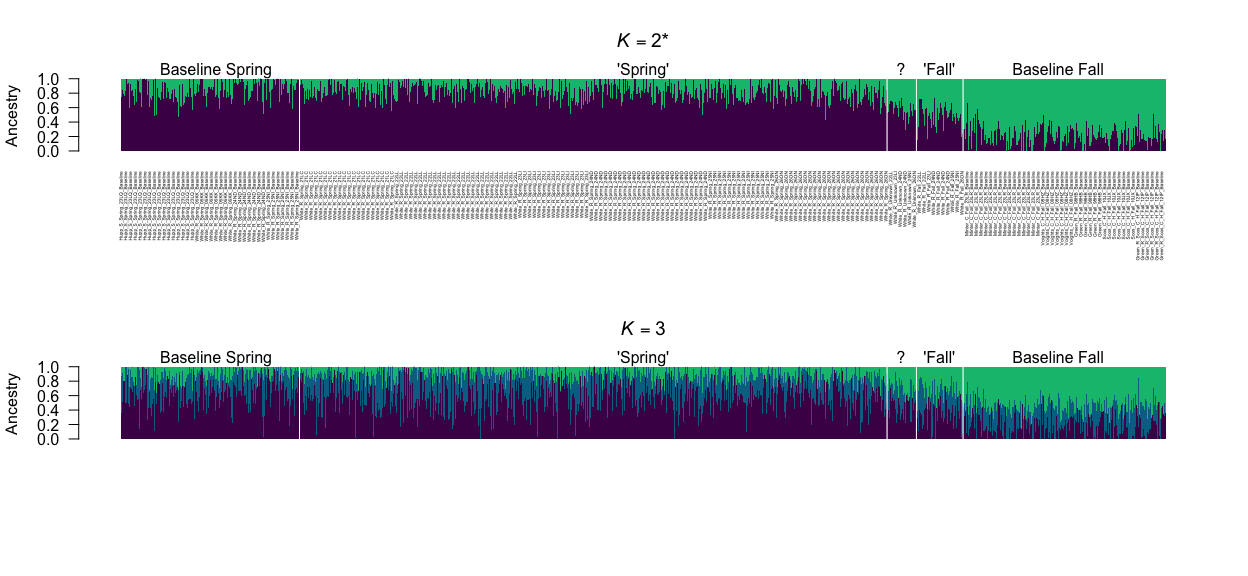
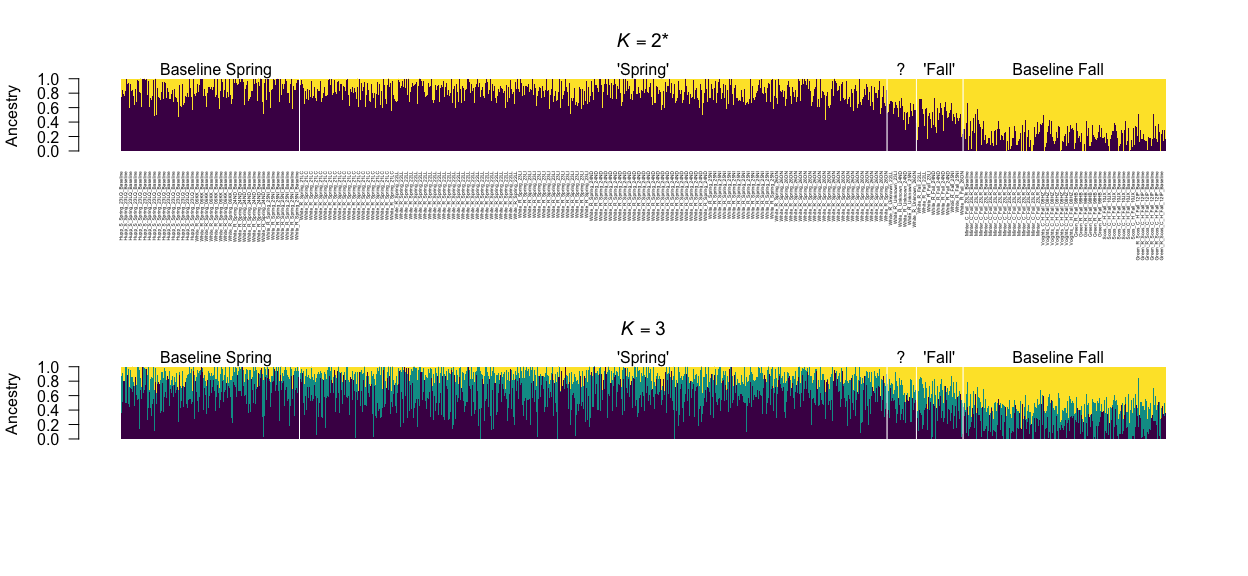
edit

Changed region(s): [[0.0938, 0.625, 0.9375, 0.7812], [0.0938, 0.125, 0.9375, 0.25]]

diff --git a/ancestry-models3.md b/ancestry-models3.md
@@ -84,7 +84,7 @@ be difficult or impossible to distinguish:
     and Green River fall were historically isolated, genetically
     differentiated parental populations that came into secondary contact
     and interbred. In this case, White R spring and Green River fall
-    parental populations would appear as solid purple and green bars,
+    parental populations would appear as solid purple and yellow bars,
     respectively, while the hybrid population appears as a mosaic of
     those colors proportional to their genetic contribution.
 
